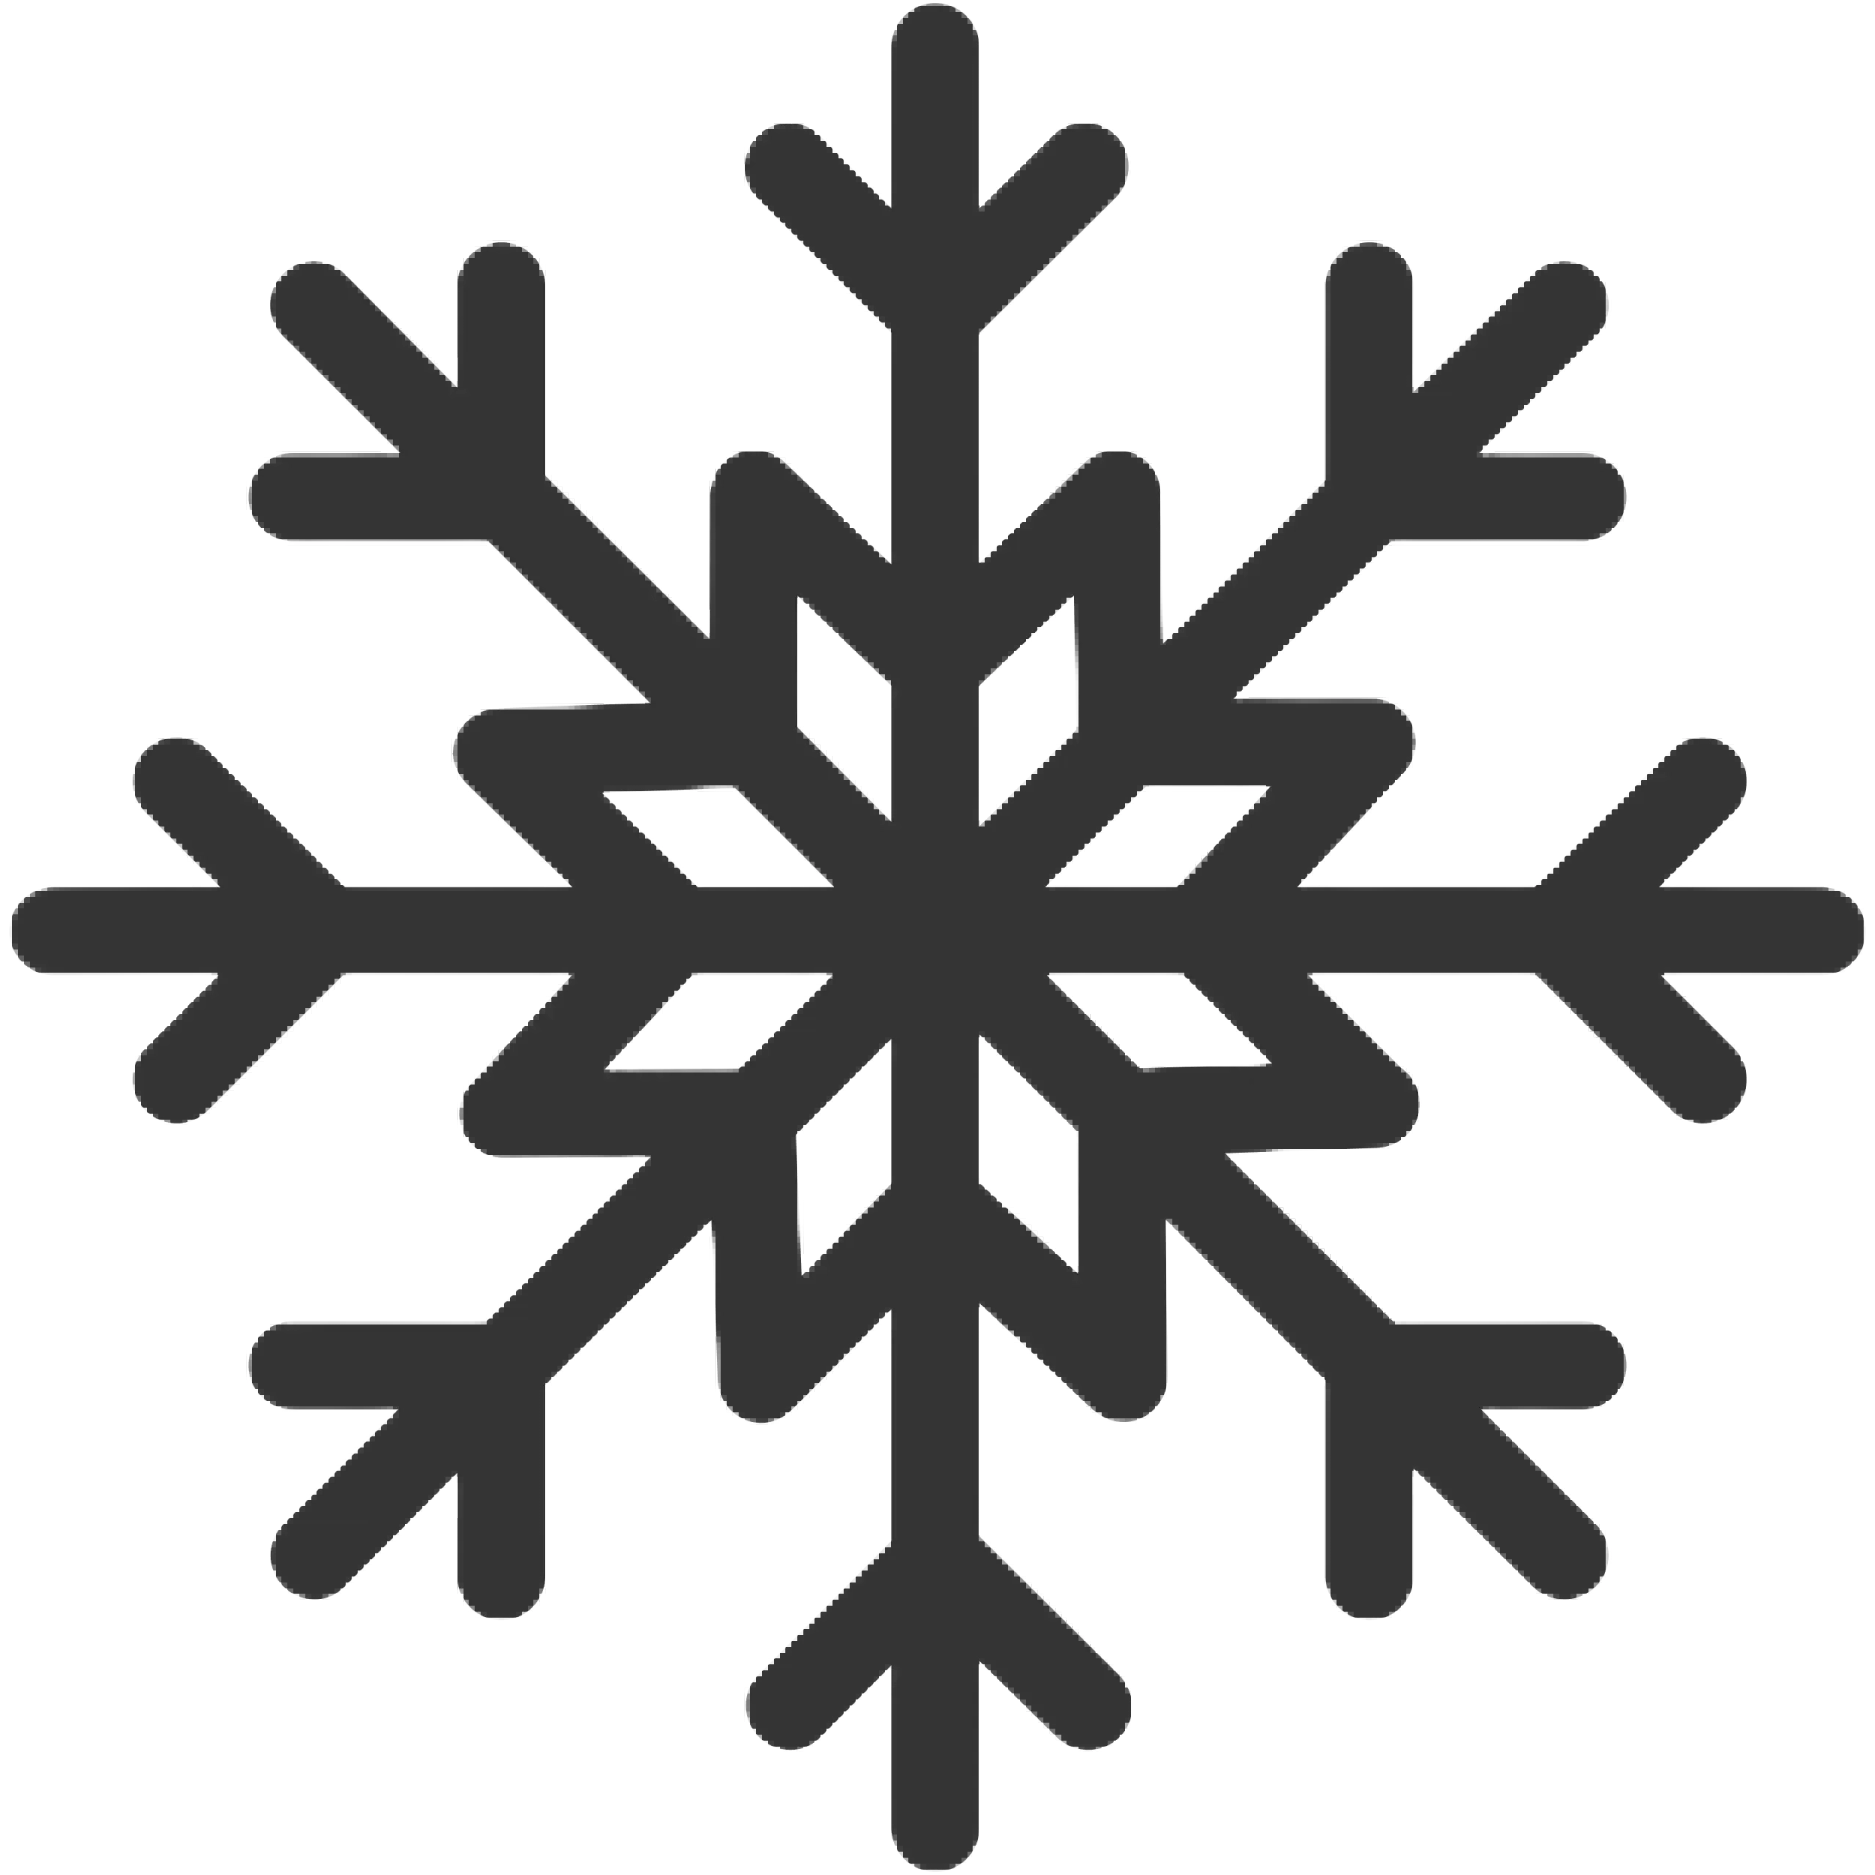
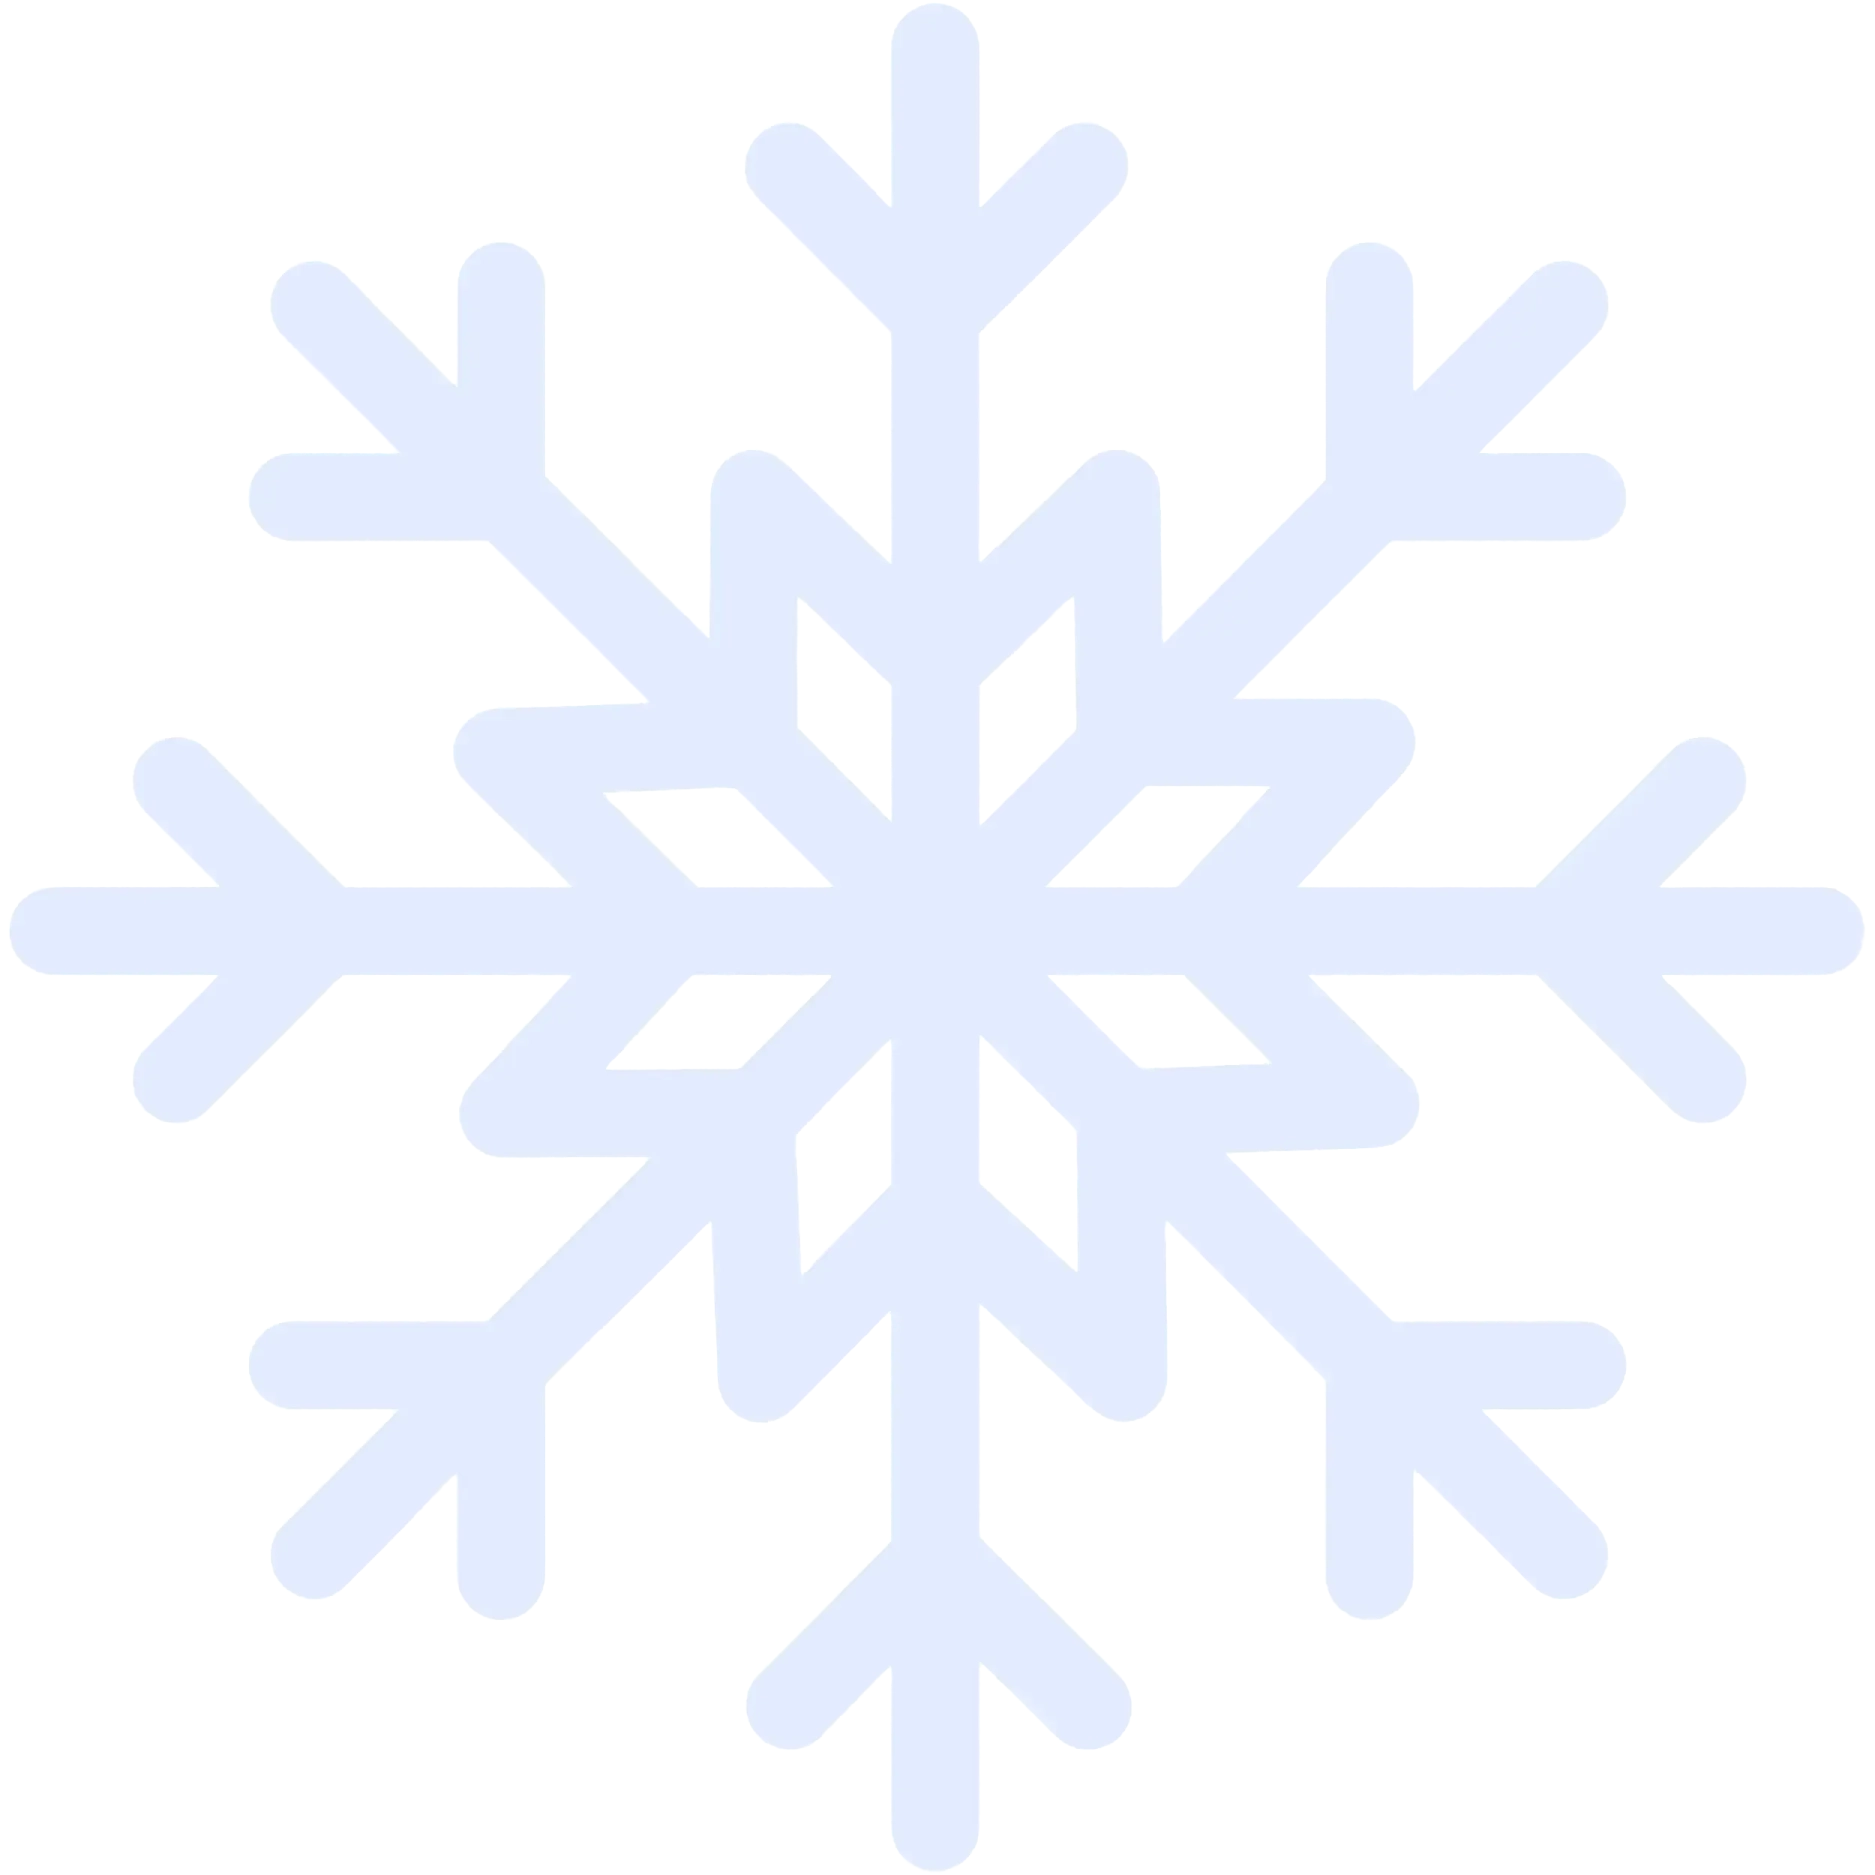
Changed snowflake.webp

diff --git a/src/components/particles/Particles.jsx b/src/components/particles/Particles.jsx
@@ -53,7 +53,7 @@ export default function ParticlesBackground() {
             direction: "none",
             enable: true,
             random: false,
-            speed: 0.7,
+            speed: 1,
             straight: false,
           },
           number: {
@@ -64,7 +64,7 @@ export default function ParticlesBackground() {
             value: 100, // Lower the number of particles
           },
           opacity: {
-            value: 1, // Initial opacity //0.4 if snowflakes
+            value: 0.3, // Initial opacity //0.4 if snowflakes
             random: true, // Randomize opacity
             anim: {
               enable: true,

diff --git a/README.md b/README.md
@@ -1,102 +1,3 @@
 npm run deploy
 
-import Particles from "react-tsparticles";
-import { loadSlim } from "tsparticles-slim";
-import { useCallback } from "react";
-import snowflake from "./../../assets/images/snowflake.svg"
-
-export default function ParticlesBackground() {
-  const particlesInit = useCallback(async (engine) => {
-    // you can initiate the tsParticles instance (engine) here, adding custom shapes or presets
-    // this loads the tsparticles package bundle, it's the easiest method for getting everything ready
-    // starting from v2 you can add only the features you need reducing the bundle size
-    await loadSlim(engine);
-  }, []);
-
-  const particlesLoaded = useCallback(async (container) => {
-    await console.log(container);
-  }, []);
-
-  return (
-    <Particles
-      id="tsparticles"
-      init={particlesInit}
-      loaded={particlesLoaded}
-      options={{
-        background: {
-          color: {
-            value: "#171717",
-          },
-        },
-        fpsLimit: 60,
-        interactivity: {
-          events: {
-            onClick: {
-              enable: true,
-              mode: "push",
-            },
-            onHover: {
-              enable: true,
-              mode: "grab",
-            },
-            resize: true,
-          },
-          modes: {
-            push: {
-              quantity: 20,
-            },
-            grab: {
-              distance: 100, // Adjust the distance at which particles are grabbed by the cursor
-            },
-          },  
-        },
-        particles: {
-          move: {
-            direction: "none",
-            enable: true,
-            random: false,
-            speed: 0.7,
-            straight: false,
-          },
-          number: {
-            density: {
-              enable: true,
-              area: 500,
-            },
-            value: 120,
-          },
-          opacity: {
-            value: 0.4, // Initial opacity
-            random: true, // Randomize opacity
-            anim: {
-              enable: true,
-              speed: 1, // Speed of opacity change
-              opacity_min: 0.1, // Minimum opacity
-              sync: false,
-            },
-          },
-          shape: {
-            // type: 'none', // No shape defined (to create a starry sky effect)
-            // To use custom image instead, uncomment the following lines:
-            type: "image",
-            image: {
-              src: `${snowflake}`,
-              width: 50,
-              height: 50,
-            },
-          },
-          size: {
-            value: { min: 3, max: 7 },
-          },
-          links: {
-            color: "#7C7C7C",
-            // enable: true,
-            opacity: 1,
-            width: 0.5,
-          },
-        },
-        detectRetina: true,
-      }}
-    />
-  );
-}
+SVG to WEBP => Background remover (+ SVG Viewer)
